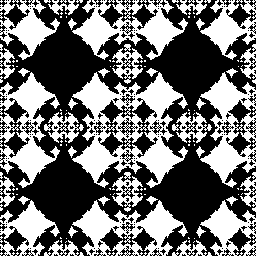
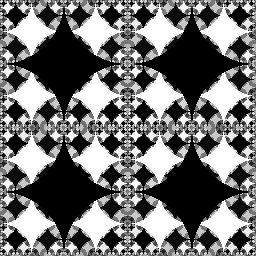
Fix images

diff --git a/src/command.rs b/src/command.rs
@@ -29,24 +29,6 @@ pub(crate) enum Command {
   Wrap,
 }
 
-trait Foo {
-  fn bar(self) -> Vector3<f64>;
-}
-
-impl Foo for Vector3<u8> {
-  fn bar(self) -> Vector3<f64> {
-    self.map(|component| component as f64 / 255.0)
-  }
-}
-
-fn f64_to_u8(v: Vector3<f64>) -> Vector3<u8> {
-  Vector3::new(
-    (v.x * 255.0) as u8,
-    (v.y * 255.0) as u8,
-    (v.z * 255.0) as u8,
-  )
-}
-
 impl Command {
   pub(crate) fn run(&self, state: &mut State) -> Result<()> {
     match self {
@@ -73,11 +55,12 @@ impl Command {
                   state.default
                 },
               );
+              let over = over.map(|c| c as f64);
               let under = state.matrix[(row, col)];
-              output[(row, col)] = f64_to_u8(
-                (over.bar() * state.alpha + under.bar() * (1.0 - state.alpha))
-                  / (state.alpha + (1.0 - state.alpha)),
-              );
+              let under = under.map(|c| c as f64);
+              let combined = (over * state.alpha + under * (1.0 - state.alpha))
+                / (state.alpha + (1.0 - state.alpha));
+              output[(row, col)] = combined.map(|c| c as u8);
             }
           }
         }

diff --git a/README.md b/README.md
@@ -35,11 +35,6 @@ $ degenerate autosave resize:256 x apply load:0.png save
 ![autosave resize:256 x apply load:0.png save](images/autosave%20resize%3A256%20x%20apply%20load%3A0.png%20save.png)
 
 ```
-$ degenerate comment:slow alpha:0.5 resize:256 rotate-color:g:0.05 circle scale:0.75 wrap for:8 apply loop rotate:0.8333 rotate-color:b:0.05 for:8 apply loop save
-```
-![comment:slow alpha:0.5 resize:256 rotate-color:g:0.05 circle scale:0.75 wrap for:8 apply loop rotate:0.8333 rotate-color:b:0.05 for:8 apply loop save](images/comment%3Aslow%20alpha%3A0.5%20resize%3A256%20rotate-color%3Ag%3A0.05%20circle%20scale%3A0.75%20wrap%20for%3A8%20apply%20loop%20rotate%3A0.8333%20rotate-color%3Ab%3A0.05%20for%3A8%20apply%20loop%20save.png)
-
-```
 $ degenerate comment:slow alpha:0.75 resize:256 circle scale:0.5 for:8 apply wrap loop save
 ```
 ![comment:slow alpha:0.75 resize:256 circle scale:0.5 for:8 apply wrap loop save](images/comment%3Aslow%20alpha%3A0.75%20resize%3A256%20circle%20scale%3A0.5%20for%3A8%20apply%20wrap%20loop%20save.png)
@@ -128,6 +123,11 @@ $ degenerate default:0:255:0 resize:256 save
 $ degenerate resize:256 all apply save
 ```
 ![resize:256 all apply save](images/resize%3A256%20all%20apply%20save.png)
+
+```
+$ degenerate resize:256 alpha:0.5 x apply save
+```
+![resize:256 alpha:0.5 x apply save](images/resize%3A256%20alpha%3A0.5%20x%20apply%20save.png)
 
 ```
 $ degenerate resize:256 apply save
@@ -273,11 +273,6 @@ $ degenerate resize:256 scale:2 x apply save
 $ degenerate resize:256 seed:2 random-mask apply save
 ```
 ![resize:256 seed:2 random-mask apply save](images/resize%3A256%20seed%3A2%20random-mask%20apply%20save.png)
-
-```
-$ degenerate resize:256 square apply alpha:0.25 x apply save
-```
-![resize:256 square apply alpha:0.25 x apply save](images/resize%3A256%20square%20apply%20alpha%3A0.25%20x%20apply%20save.png)
 
 ```
 $ degenerate resize:256 square apply save
